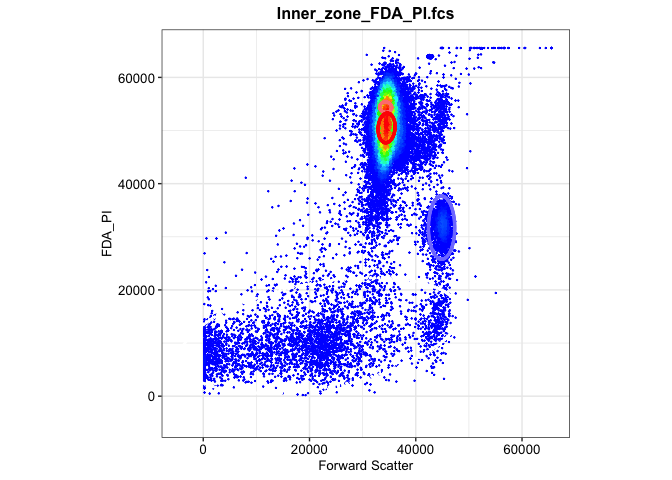
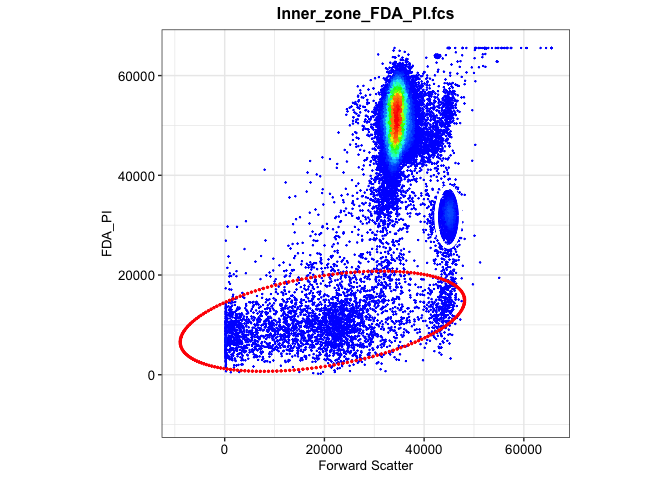
update FDA_PI result

diff --git a/workflow/02b-flowEMMI-on-FDA_PI-from-Z-project.md b/workflow/02b-flowEMMI-on-FDA_PI-from-Z-project.md
@@ -1,6 +1,6 @@
 02b-flowEMMI on FDA_PI from Z-project
 ================
-Compiled at 2023-09-27 21:58:51 UTC
+Compiled at 2023-10-26 10:15:28 UTC
 
 ``` r
 here::i_am(paste0(params$name, ".Rmd"), uuid = "ce529353-7643-4521-8dc9-35a25f812de1")
@@ -44,7 +44,7 @@ library(tidyverse)
 
     ## ── Attaching core tidyverse packages ──────────────────────── tidyverse 2.0.0 ──
     ## ✔ forcats   1.0.0     ✔ stringr   1.5.0
-    ## ✔ lubridate 1.9.2     ✔ tibble    3.2.1
+    ## ✔ lubridate 1.9.3     ✔ tibble    3.2.1
     ## ✔ readr     2.1.4     ✔ tidyr     1.3.0
 
 ``` r
@@ -183,7 +183,7 @@ flowEMMi_mahalanobis <- function(data,data_name,gating_data,alpha){
   maha <- maha_data[,2:n_clusters] %>% as.data.frame()
   
   #set 95% quantile as cutoff value
-  threshold <- (-2*log(1-alpha))^2
+  threshold <- -2*log(1-alpha)
   
   #determine cluster
   for (cell in 1:n_cells){
@@ -206,20 +206,23 @@ flowEMMi_mahalanobis <- function(data,data_name,gating_data,alpha){
   
   area <- matrix(NA,nrow=nrow(eigen),ncol=1)
   for (i in 1:nrow(eigen)){
-    area[i,1] <- pi*sqrt(eigen[i,1]*eigen[i,2])
+    area[i,1] <- pi*sqrt(eigen[i,1]*eigen[i,2])*(-2*log(1-alpha))
   }
   
   area <- area %>% as.data.frame()
   test <- cbind(test,area,coordinates)
-  table <- test %>% 
-    kable(caption = data_name,
-          col.names = c("Cluster","Cells","Area","Coordinate"))
+  colnames(test) <- c("Cluster","Cells","Area","Coordinate")
+
+  #table <- gt(test) %>%
+    #tab_header(title = data_name) %>%
+    #tab_spanner(label="Cell",columns = c(Local,Meta)) %>%
+    #tab_spanner(label="Area",columns = c(Local,Meta))
    
   #plot
   maha_data2$Cluster <- as.factor(maha_data2$Cluster)
   
   plot1 <- ggplot(maha_data2,aes(x=!!sym(names[1]),y=!!sym(names[2]),color=Cluster))+
-    geom_point()+
+    geom_point(alpha=1/5)+
     ggtitle(data_name)
   
   num_ellipse <- length(gating_data@sigma)
@@ -227,14 +230,14 @@ flowEMMi_mahalanobis <- function(data,data_name,gating_data,alpha){
   for (j in 2:num_ellipse){
     mu <- gating_data@mu[,j]
     sigma <- gating_data@sigma[[j]]
-    eli <- ellipse::ellipse(centre=mu,x=sigma,level=0.95,npoints=200) 
+    eli <- ellipse::ellipse(centre=mu,x=sigma,level=alpha,npoints=200) 
     eli <- as.data.frame(eli)
     colnames(eli)<- names
     plot1 <- plot1+geom_path(data = eli,
                   aes(x=!!sym(names[1]),y=!!sym(names[2])),color=j)
   }
   
-  maha_result <- list(maha_matrix=maha_data2,table_info=table,plot=plot1)
+  maha_result <- list(maha_matrix=maha_data2,table_info=test,plot=plot1)
   return(maha_result)
 }
 ```
@@ -243,12 +246,17 @@ flowEMMi_mahalanobis <- function(data,data_name,gating_data,alpha){
 flowemmi_FDA_PI <- list()
 
 for (i in 1:5){
-  data <- FDA_PI[[i]]@exprs[,c(11,15)]
   data_name <- names(FDA_PI)[i]
+  data <- FDA_PI[[i]]@exprs[,c(11,15)]
   gating_data <- gating_FDA_PI[[i]]
-  flowemmi_FDA_PI[[data_name]] <-flowEMMi_mahalanobis(data,data_name,gating_data,0.95)
-  print(flowemmi_FDA_PI[[i]]$table_info)
-  print(flowemmi_FDA_PI[[i]]$plot)
+  flowemmi_FDA_PI[[data_name]] <-flowEMMi_mahalanobis(data,data_name,gating_data,0.9)
+  
+  # visualization
+  table <- flowemmi_FDA_PI[[data_name]]$table_info %>% 
+    kable(caption = data_name,
+          col.names = c("Cluster","Cells","Area","Coordinate"))
+  print(table)
+  print(flowemmi_FDA_PI[[data_name]]$plot)
 }
 ```
 
@@ -256,28 +264,23 @@ for (i in 1:5){
     ## 
     ## Table: Inner_zone_FDA_PI.fcs
     ## 
-    ## |Cluster | Cells|        Area|Coordinate          |
-    ## |:-------|-----:|-----------:|:-------------------|
-    ## |1       |  8644|    750346.6|(34342.30,54379.35) |
-    ## |2       | 32205|   3020618.7|(34505.45,50486.47) |
-    ## |3       |  2272|  10030909.7|(44862.67,31712.44) |
-    ## |4       |  5060| 179762426.9|(21949.57,11431.48) |
+    ## |Cluster | Cells|      Area|Coordinate          |
+    ## |:-------|-----:|---------:|:-------------------|
+    ## |1       |  3594| 818442864|(19595.59,10728.79) |
+    ## |2       |  1838|  46335074|(44870.52,31676.26) |
 
-![](02b-flowEMMI-on-FDA_PI-from-Z-project_files/figure-gfm/unnamed-chunk-2-1.png)<!-- -->
+![](02b-flowEMMI-on-FDA_PI-from-Z-project_files/figure-gfm/plot-maha-1.png)<!-- -->
 
     ## 
     ## 
     ## Table: Middle_zone_FDA_PI.fcs
     ## 
-    ## |Cluster | Cells|     Area|Coordinate          |
-    ## |:-------|-----:|--------:|:-------------------|
-    ## |1       | 26756|  4694396|(35605.99,57083.86) |
-    ## |2       |  2429| 11608940|(45918.96,26554.53) |
-    ## |3       |  1220| 11631408|(33867.98,16704.77) |
-    ## |4       |  1815| 24816958|(4941.35,8150.46)   |
-    ## |5       | 17812| 19817643|(34366.51,33916.52) |
+    ## |Cluster | Cells|      Area|Coordinate          |
+    ## |:-------|-----:|---------:|:-------------------|
+    ## |1       |   823| 119368442|(3654.85,7891.90)   |
+    ## |2       |  1987|  57042626|(45868.74,26659.03) |
 
-![](02b-flowEMMI-on-FDA_PI-from-Z-project_files/figure-gfm/unnamed-chunk-2-2.png)<!-- -->
+![](02b-flowEMMI-on-FDA_PI-from-Z-project_files/figure-gfm/plot-maha-2.png)<!-- -->
 
     ## 
     ## 
@@ -285,23 +288,26 @@ for (i in 1:5){
     ## 
     ## |Cluster | Cells|      Area|Coordinate          |
     ## |:-------|-----:|---------:|:-------------------|
-    ## |1       | 44422|  18808340|(33281.33,31577.91) |
-    ## |2       |  4329| 130033033|(15417.65,10506.33) |
+    ## |1       |  2901|  89808795|(33293.04,31672.00) |
+    ## |2       |  3818| 613252482|(14550.96,10313.60) |
+    ## |3       |   166|  45374181|(49959.64,64711.82) |
 
-![](02b-flowEMMI-on-FDA_PI-from-Z-project_files/figure-gfm/unnamed-chunk-2-3.png)<!-- -->
+![](02b-flowEMMI-on-FDA_PI-from-Z-project_files/figure-gfm/plot-maha-3.png)<!-- -->
 
     ## 
     ## 
     ## Table: Surrounding_FDA_PI.fcs
     ## 
-    ## |Cluster | Cells|     Area|Coordinate          |
-    ## |:-------|-----:|--------:|:-------------------|
-    ## |1       |  1440|  5540547|(46278.67,32603.67) |
-    ## |2       |  3778|  4247893|(24430.99,4777.71)  |
-    ## |3       |  3647|  4800805|(17510.04,2514.06)  |
-    ## |4       |  8615| 12374104|(33950.58,13560.15) |
+    ## |Cluster | Cells|      Area|Coordinate          |
+    ## |:-------|-----:|---------:|:-------------------|
+    ## |1       |  2733| 122975439|(6520.79,4595.34)   |
+    ## |2       |  2515|  86495516|(33928.36,15075.46) |
+    ## |3       |  5914| 130709184|(22894.67,4270.12)  |
+    ## |4       |  1140|  33343277|(46219.07,32694.19) |
+    ## |5       |   486|    928291|(42552.05,63872.88) |
+    ## |6       | 29557|  91484506|(35879.59,40226.52) |
 
-![](02b-flowEMMI-on-FDA_PI-from-Z-project_files/figure-gfm/unnamed-chunk-2-4.png)<!-- -->
+![](02b-flowEMMI-on-FDA_PI-from-Z-project_files/figure-gfm/plot-maha-4.png)<!-- -->
 
     ## 
     ## 
@@ -309,11 +315,12 @@ for (i in 1:5){
     ## 
     ## |Cluster | Cells|      Area|Coordinate          |
     ## |:-------|-----:|---------:|:-------------------|
-    ## |1       | 44621|  24276146|(34030.17,33927.28) |
-    ## |2       |  1489|  11193828|(45646.15,30698.58) |
-    ## |3       |  5608| 146142597|(17394.74,11857.46) |
+    ## |1       |   621|  38838127|(4293.53,9312.76)   |
+    ## |2       |  2649| 349730746|(21691.09,12926.14) |
+    ## |3       |  1329|  50895394|(45652.54,30710.34) |
+    ## |4       |  1676|  90290360|(34023.77,33535.60) |
 
-![](02b-flowEMMI-on-FDA_PI-from-Z-project_files/figure-gfm/unnamed-chunk-2-5.png)<!-- -->
+![](02b-flowEMMI-on-FDA_PI-from-Z-project_files/figure-gfm/plot-maha-5.png)<!-- -->
 
 ## Files written
 
